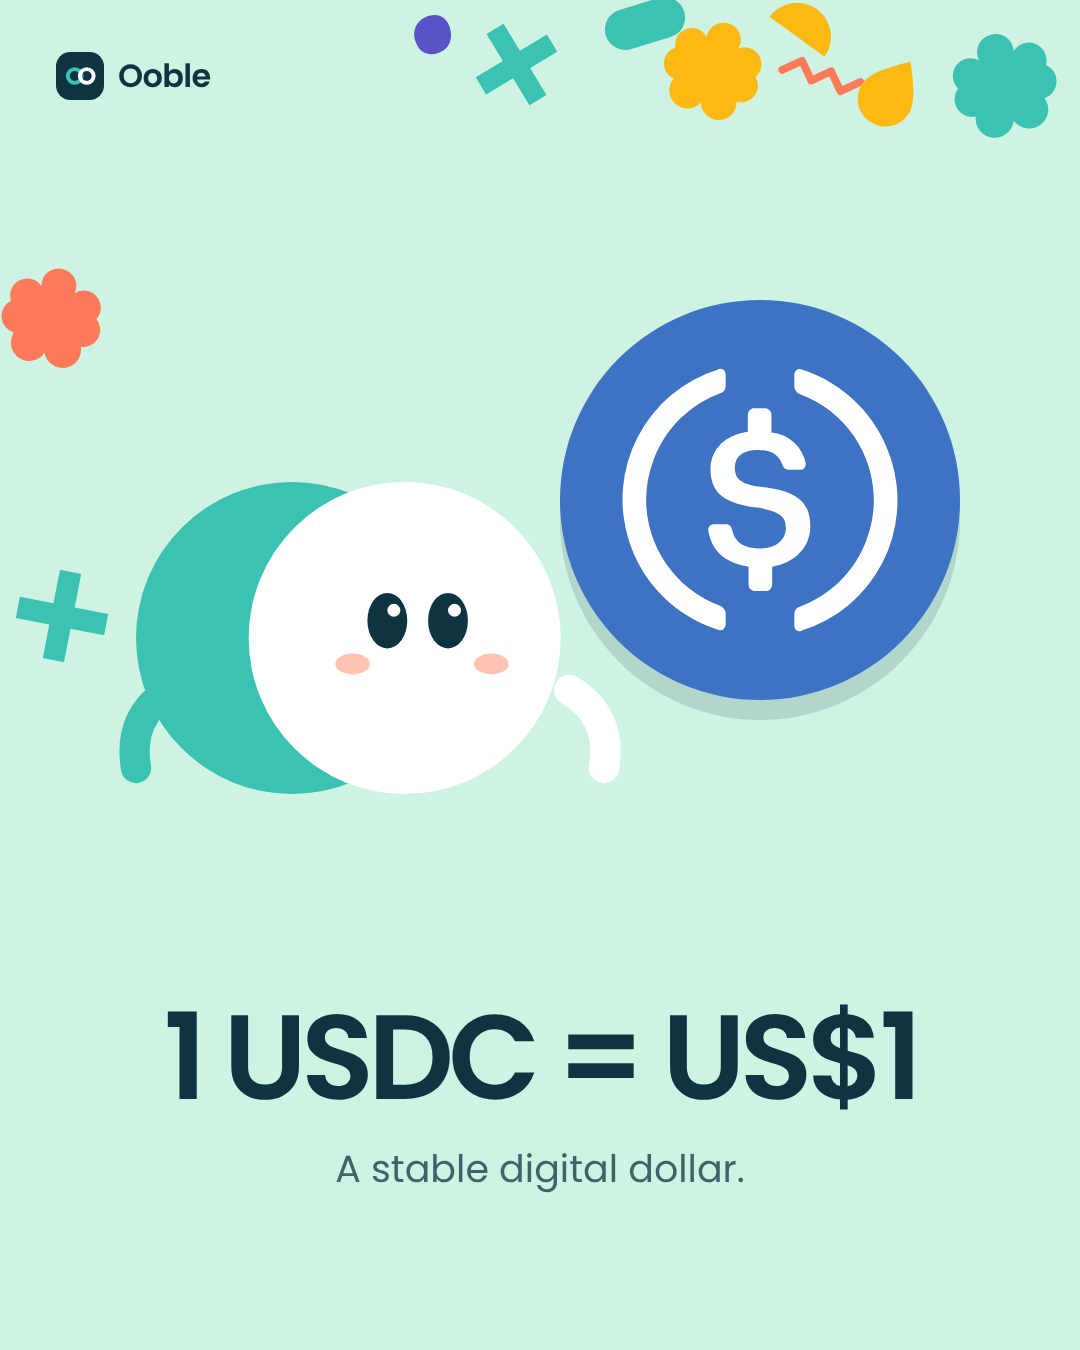
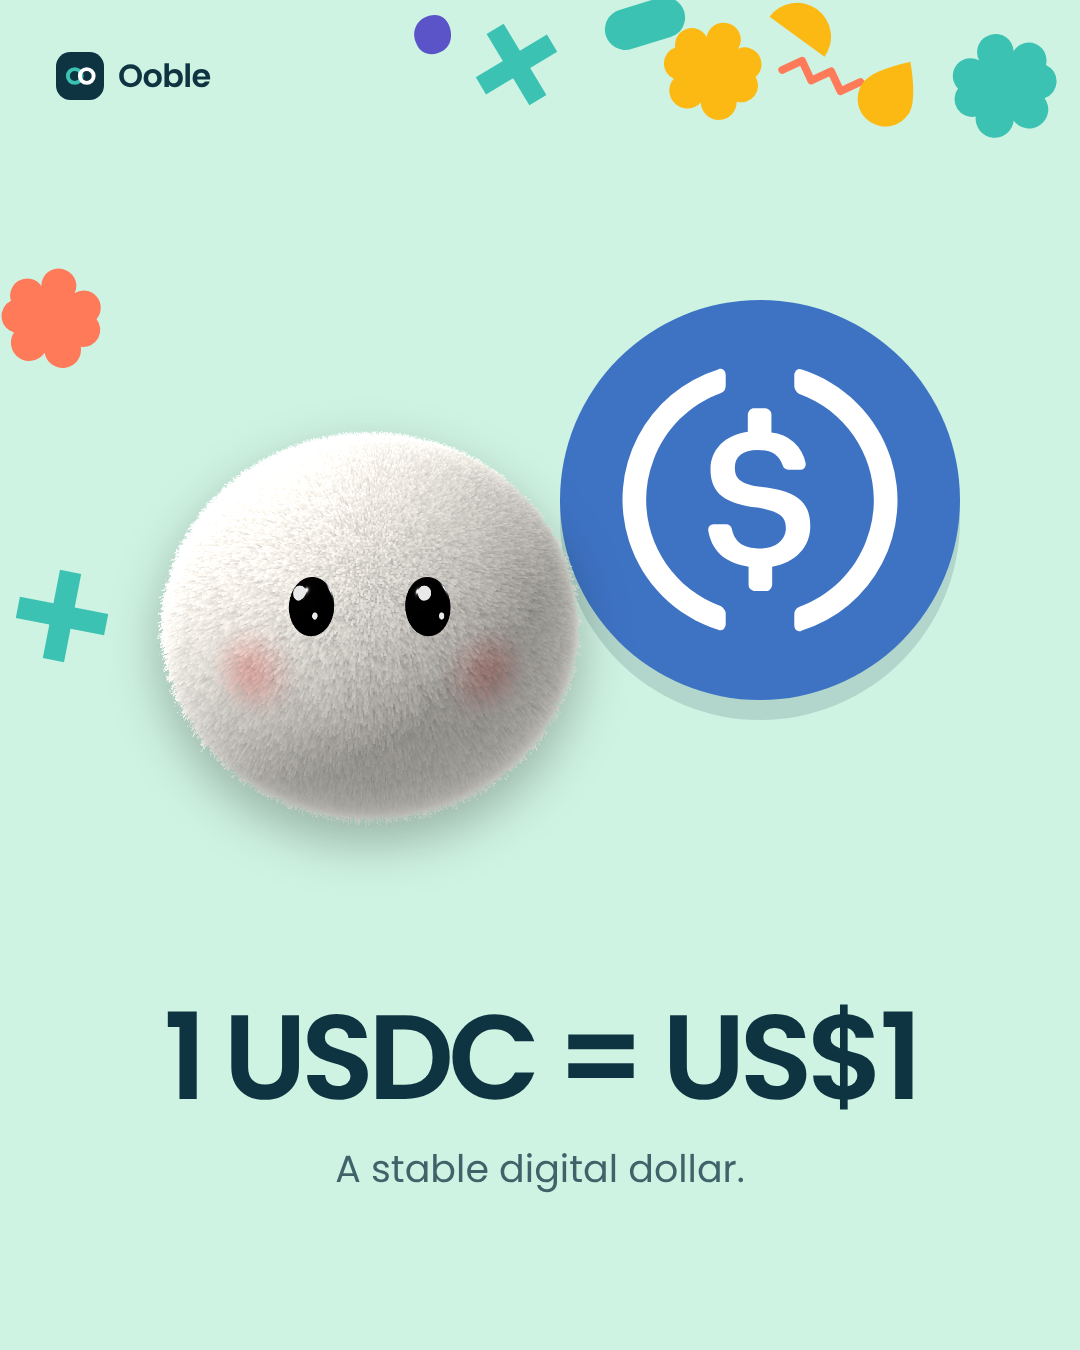
Studio réseaux sociaux : la mascotte devient une peluche blanche en 3D, avec des poils
Claude-Session: https://claude.ai/code/session_01CAJ8dx7vnzGsX95vvxDFrG

Changed region(s): [[0.0917, 0.3111, 0.5806, 0.6533]]

diff --git a/src/lib/socialPosts.ts b/src/lib/socialPosts.ts
@@ -2167,8 +2167,8 @@ BNB Chain, Polygon, Solana, Avalanche : choisissez celui de votre portefeuille.
     id: "serie-18",
     title: "Série 18 · Signature",
     titleEn: "Series 18 · Signature",
-    description: "La direction artistique d'Ooble : la mascotte aux deux anneaux, des autocollants, des écrans de l'app, peu de texte.",
-    descriptionEn: "Ooble's art direction: the two-ring mascot, stickers, app screens, very little text.",
+    description: "La direction artistique d'Ooble : la mascotte en peluche, des autocollants, des écrans de l'app, peu de texte.",
+    descriptionEn: "Ooble's art direction: the plush mascot, stickers, app screens, very little text.",
     posts: [
       {
         id: "oobi-gm", title: "gm.", images: img("serie-18", "111-oobi-gm"),
@@ -2189,12 +2189,12 @@ Bonne journée de la part de toute l'équipe Ooble.
         titleEn: "Nice to meet you",
         captionEn: `Nice to meet you.
 
-Ooble's two rings, in person. You'll see them a lot around here.
+Ooble's mascot, soft and fluffy. You'll see it a lot around here.
 
 #Ooble #USDC #CryptoCanada`,
         caption: `Enchanté.
 
-Les deux anneaux d'Ooble, en personne. Vous allez les voir souvent par ici.
+La mascotte d'Ooble, toute douce. Vous allez la voir souvent par ici.
 
 #Ooble #USDC #CryptoCanada`,
       },
